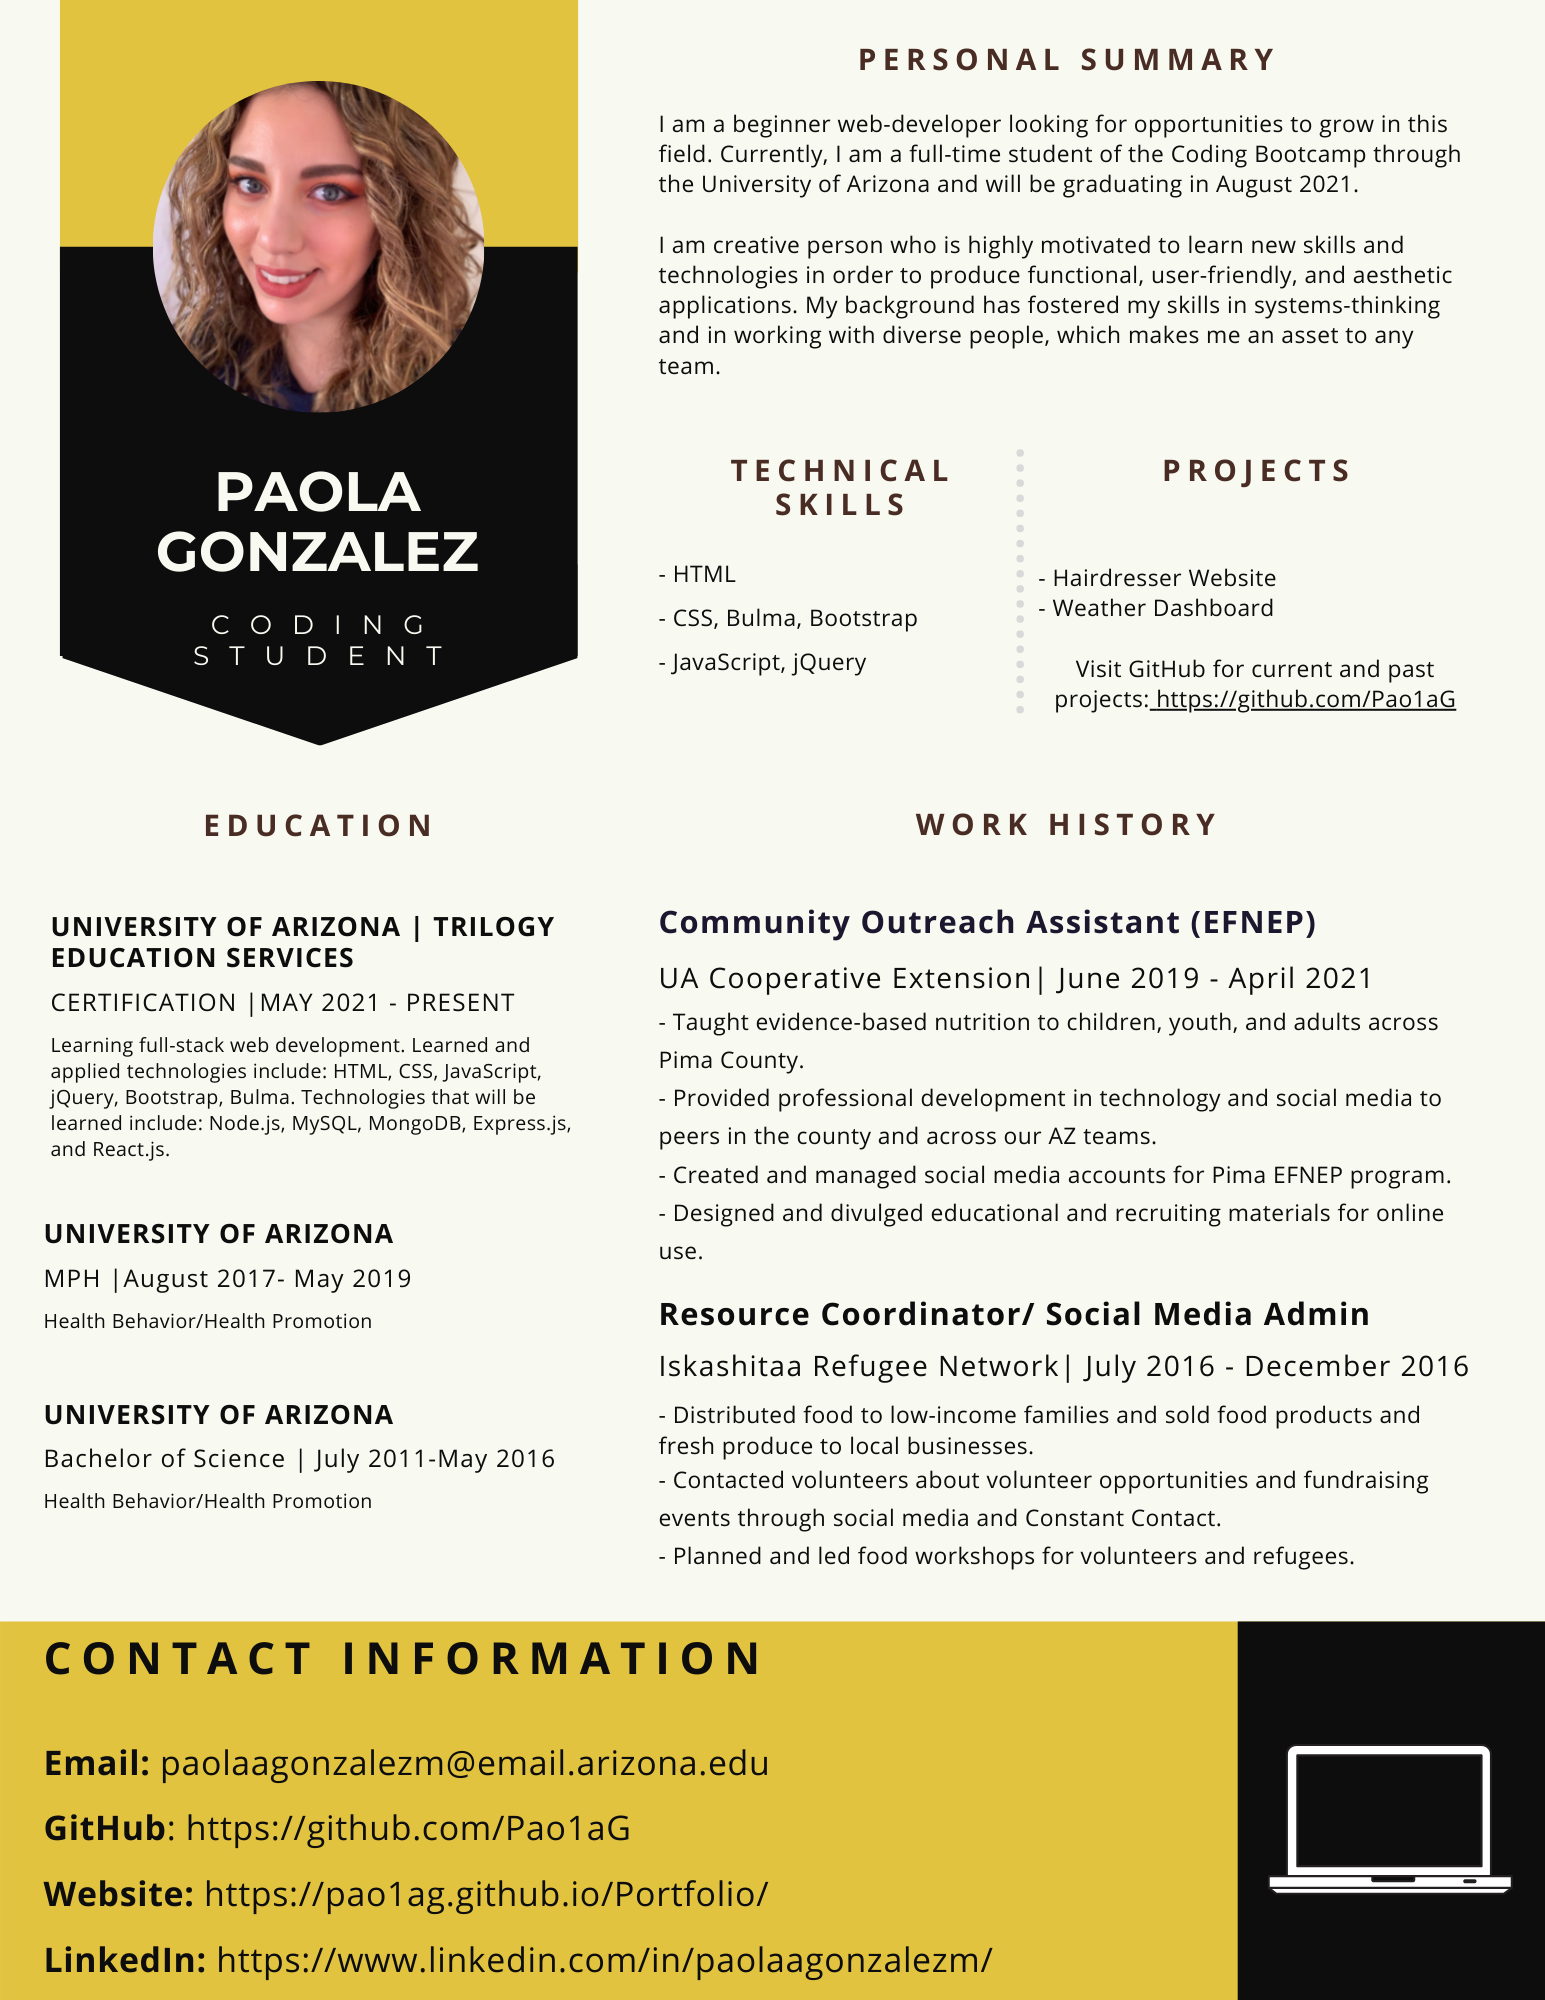
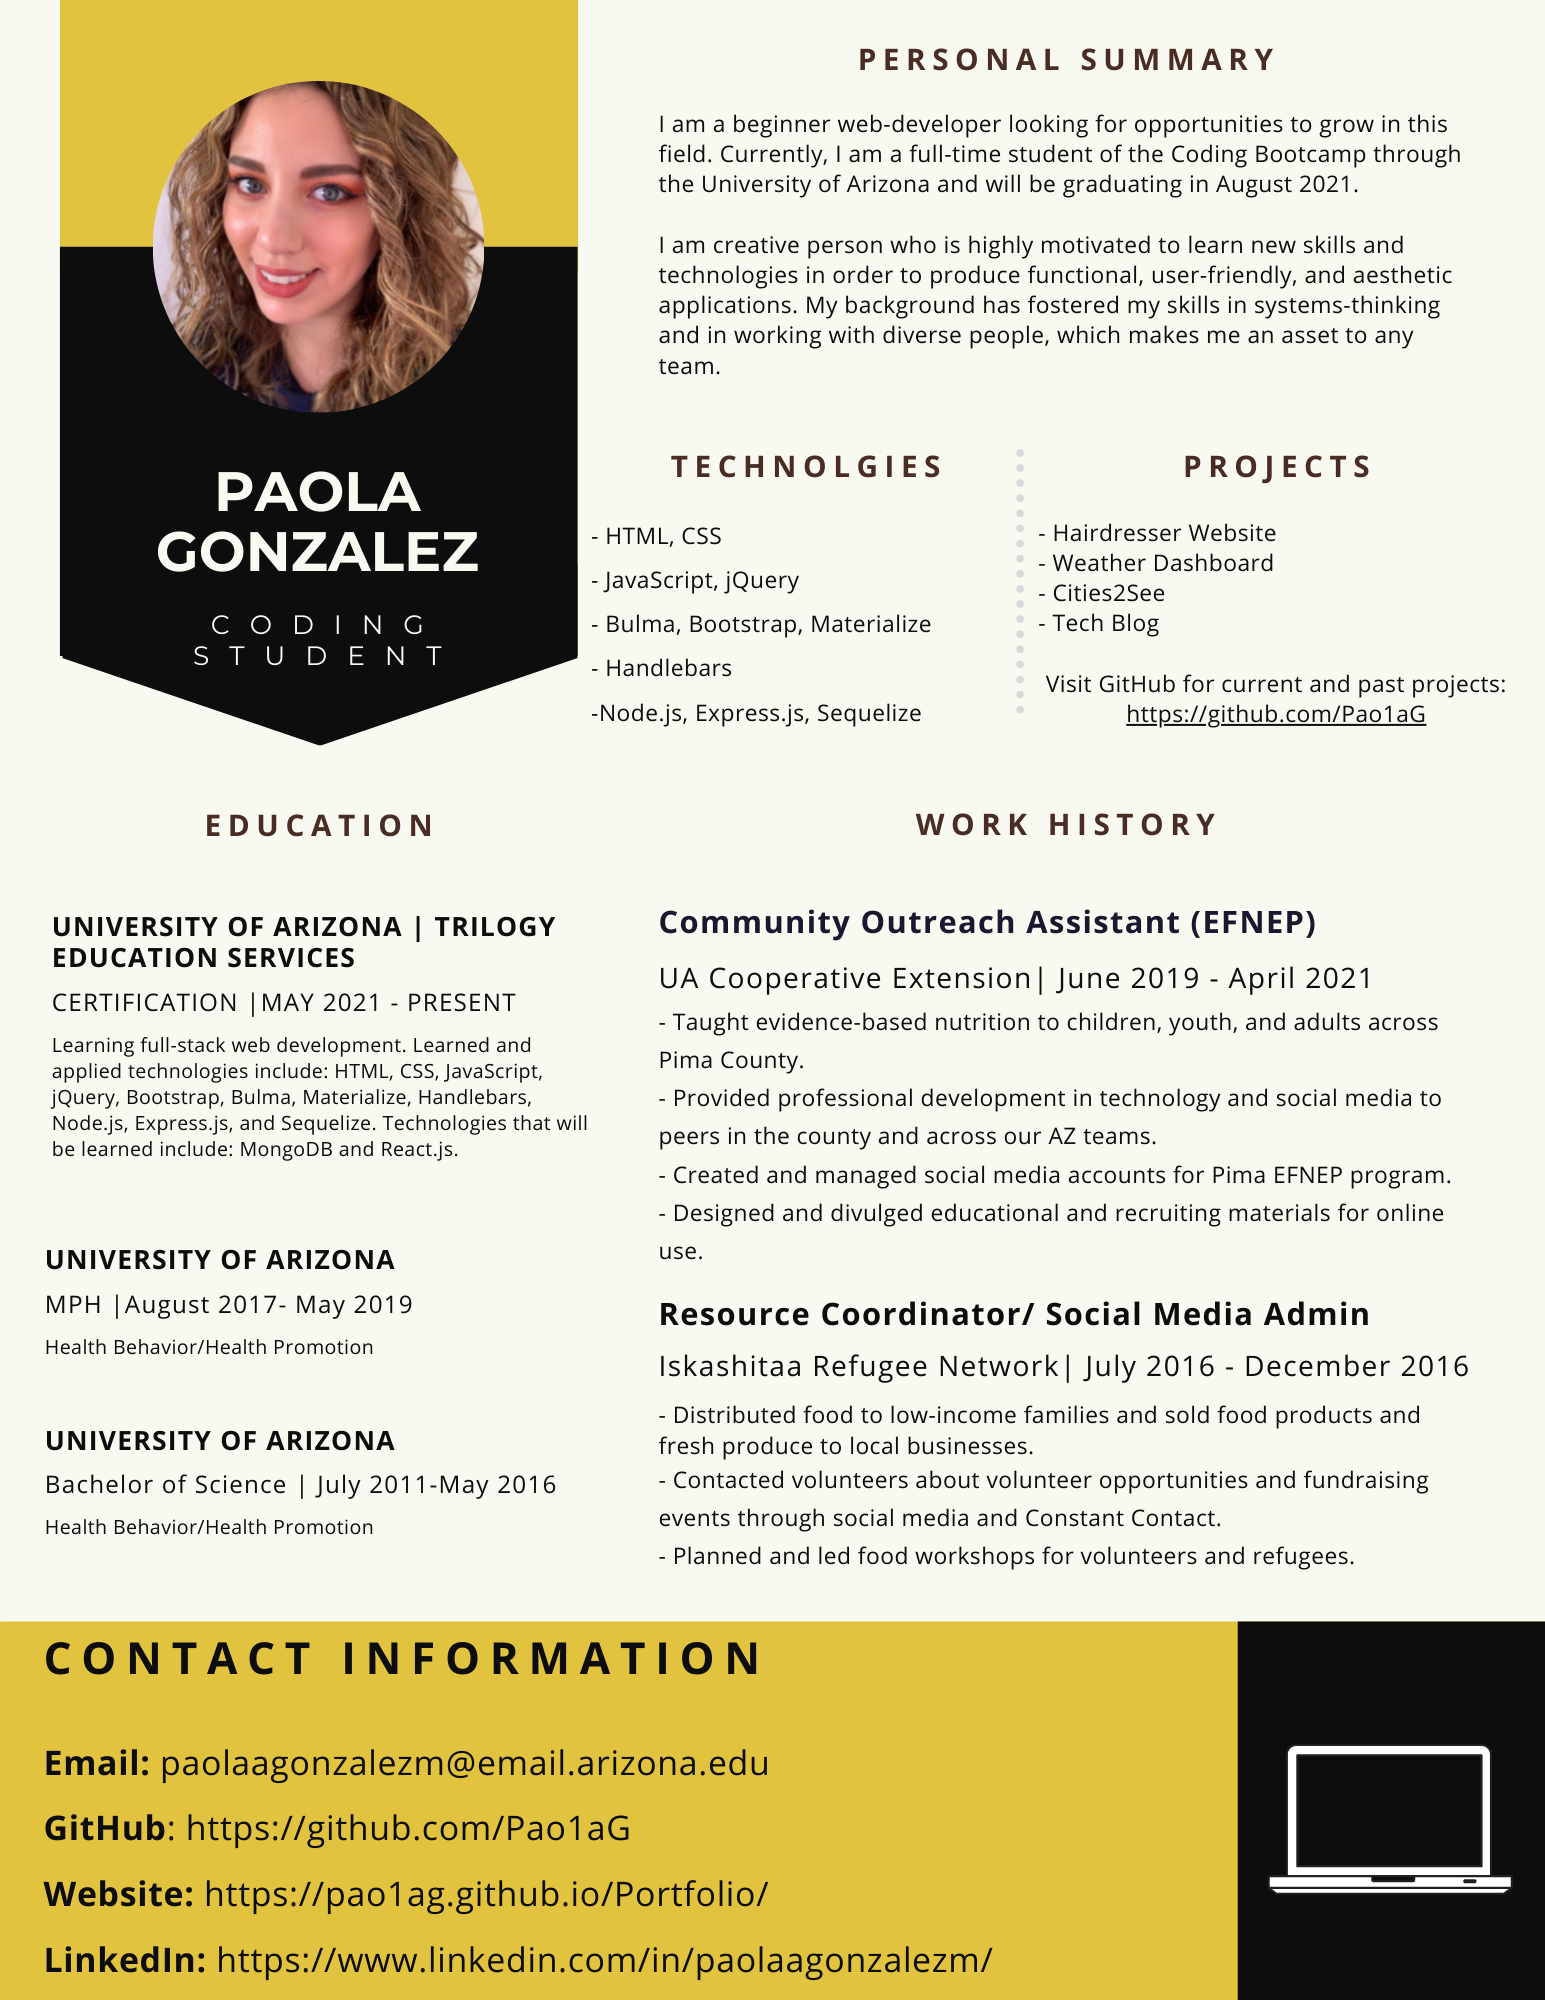
added more projects with links and updated resume

diff --git a/index.html b/index.html
@@ -66,38 +66,44 @@
             </section>
             <section class="card" id="card2">
               <div class="work-textblock">
+                <h3>Tech-Blog</h3>
+                <p>Express | MySQL</p>
+              </div>
+            </section>
+            <section class="card" id="card3">
+              <div class="work-textblock">
+                <h3>Cities2See</h3>
+                <p>Express | MySQL</p>
+              </div>
+            </section>
+            <section class="card" id="card4">
+              <div class="work-textblock">
                 <h3>Weather Dashboard</h3>
                 <p>JavaScript</p>
               </div>
             </section>
-            <section class="card" id="card3">
+            <section class="card" id="card5">
               <div class="work-textblock">
                 <h3>Password Generator</h3>
                 <p>JavaScript</p>
               </div>
             </section>
-            <section class="card" id="card4">
+            <section class="card" id="card6">
               <div class="work-textblock">
                 <h3>Work Day Scheduler</h3>
                 <p>JavaScript | Bootstrap</p>
               </div>
             </section>
-            <section class="card" id="card5">
+            <section class="card" id="card7">
               <div class="work-textblock">
                 <h3>Code Quiz</h3>
                 <p>JavaScript</p>
               </div>
             </section>
-            <section class="card" id="card6">
+            <section class="card" id="card8">
               <div class="work-textblock">
                 <h3>Team Profile Generator</h3>
                 <p>Node JS</p>
-              </div>
-            </section>
-            <section class="card" id="card7">
-              <div class="work-textblock">
-                <h3>Work 7</h3>
-                <p>Type of technology</p>
               </div>
             </section>
           </article>

diff --git a/assets/script/script.js b/assets/script/script.js
@@ -28,33 +28,47 @@ largeCard.addEventListener("click", function(event) {
 var card2 = document.querySelector("#card2");
 card2.addEventListener("click", function(event) {
     event.preventDefault();
-    window.open('https://github.com/Pao1aG/Weather-Dashboard', '_blank');
+    window.open('https://github.com/Pao1aG/Tech-Blog', '_blank');
 });
 
 //CARD3
 var card3 = document.querySelector("#card3");
 card3.addEventListener("click", function(event) {
     event.preventDefault();
-    window.open('https://github.com/Pao1aG/Password-Generator', '_blank');
+    window.open('https://github.com/Pao1aG/Cities2See', '_blank');
 });
 
 //CARD4
 var card4 = document.querySelector("#card4");
 card4.addEventListener("click", function(event) {
     event.preventDefault();
-    window.open('https://github.com/Pao1aG/Workday-Scheduler', '_blank');
+    window.open('https://github.com/Pao1aG/Weather-Dashboard', '_blank');
 });
 
 //CARD5
 var card5 = document.querySelector("#card5");
 card5.addEventListener("click", function(event) {
     event.preventDefault();
-    window.open('https://github.com/Pao1aG/Code-Quiz', '_blank');
-})
+    window.open('https://github.com/Pao1aG/Password-Generator', '_blank');
+});
 
 //CARD6
 var card6 = document.querySelector("#card6");
 card6.addEventListener("click", function(event) {
+    event.preventDefault();
+    window.open('https://github.com/Pao1aG/Workday-Scheduler', '_blank');
+});
+
+//CARD7
+var card7 = document.querySelector("#card7");
+card7.addEventListener("click", function(event) {
+    event.preventDefault();
+    window.open('https://github.com/Pao1aG/Code-Quiz', '_blank');
+})
+
+//CARD8
+var card8 = document.querySelector("#card8");
+card8.addEventListener("click", function(event) {
     event.preventDefault();
     window.open('https://github.com/Pao1aG/Team-Profile-Generator', '_blank');
 })

diff --git a/assets/css/stylesheet.css b/assets/css/stylesheet.css
@@ -187,38 +187,44 @@ aside {
     background-size: cover;
 }
 
-#card2 {
-    background-image: url("../images/img-work3.png");
+#card2{
+    background-image: url("../images/img-work7.png");
     background-repeat: no-repeat;
     background-size: cover;
 }
 
 #card3 {
-    background-image: url("../images/img-work2.png");
+    background-image: url("../images/img-work8.png");
     background-repeat: no-repeat;
     background-size: cover;
 }
 
 #card4 {
-    background-image: url("../images/img-work4.png");
+    background-image: url("../images/img-work3.png");
     background-repeat: no-repeat;
     background-size: cover;
 }
 
 #card5 {
-    background-image: url("../images/img-work5.png");
+    background-image: url("../images/img-work2.png");
     background-repeat: no-repeat;
     background-size: cover;
 }
 
 #card6 {
-    background-image: url("../images/img-work6.png");
+    background-image: url("../images/img-work4.png");
     background-repeat: no-repeat;
     background-size: cover;
 }
 
 #card7 {
-    background-image: url("../images/img-work7.png");
+    background-image: url("../images/img-work5.png");
+    background-repeat: no-repeat;
+    background-size: cover;
+}
+
+#card8 {
+    background-image: url("../images/img-work6.png");
     background-repeat: no-repeat;
     background-size: cover;
 }
